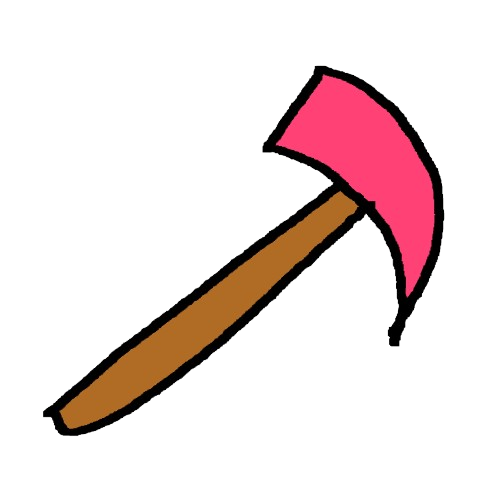
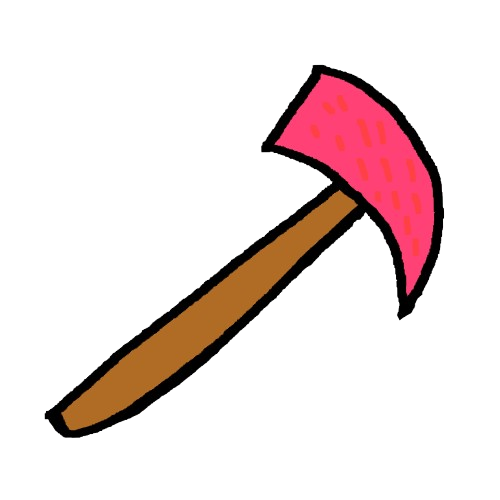
Changed a lot of things to the best and made everything even better :)

diff --git a/No-Gifts-By-Santa/MVVM/Model/allwishes.cs b/No-Gifts-By-Santa/MVVM/Model/allwishes.cs
@@ -72,7 +72,7 @@ namespace No_Gifts_By_Santa.MVVM.Model
         {
             string _wish =
                 "Hello, my name is Dave\nI am 7 years old.\n I really like the color red,\nand all sort of sweets";
-            dropElement _drop = new dropElement(view, _viewModel, "red", "sweet", "all", "candy", "hunger");
+            dropElement _drop = new dropElement(view, _viewModel, 1, "red", "sweet", "kids", "candy", "hunger");
             _drop.Source = $"gift_{new Random().Next(1, 4)}.png";
             return (_drop, _wish);
         }
@@ -81,7 +81,7 @@ namespace No_Gifts_By_Santa.MVVM.Model
         {
             string _wish =
                 "Hello, my name is Basti\nI am 24 years old.\n I really like the color blue,\nand i like to drink coffee";
-            dropElement _drop = new dropElement(view, _viewModel, "blue", "kitchen", "adult", "porcelain", "allday");
+            dropElement _drop = new dropElement(view, _viewModel, 1, "blue", "kitchen", "adult", "porcelain", "allday");
             _drop.Source = $"gift_{new Random().Next(1, 4)}.png";
             return (_drop, _wish);
         }
@@ -90,7 +90,7 @@ namespace No_Gifts_By_Santa.MVVM.Model
         {
             string _wish =
                 "Hello, my name is Pascal\nI am 18 years old.\n I really like the color green,\nand i like to drink tee";
-            dropElement _drop = new dropElement(view, _viewModel, "green", "kitchen", "adult", "porcelain", "allday");
+            dropElement _drop = new dropElement(view, _viewModel, 1, "green", "kitchen", "adult", "porcelain", "allday");
             _drop.Source = $"gift_{new Random().Next(1, 4)}.png";
             return (_drop, _wish);
         }
@@ -98,8 +98,8 @@ namespace No_Gifts_By_Santa.MVVM.Model
         public static (dropElement drop, string wish) wish_4(AbsoluteLayout view, GameViewModel _viewModel)
         {
             string _wish =
-                "Hello, my name is Mariella\nI am 9 years old.\n I really love fluffy plushies \nand especially bees";
-            dropElement _drop = new dropElement(view, _viewModel, "yellow", "cuddle-toy", "kids", "fabric", "fun");
+                "Hello, my name is Mariella,\n i really like fluffy things,\n my favorite Color is yellow";
+            dropElement _drop = new dropElement(view, _viewModel, 1, "yellow", "cuddle-toy", "kids", "fabric", "fun");
             _drop.Source = $"gift_{new Random().Next(1, 4)}.png";
             return (_drop, _wish);
         }
@@ -107,24 +107,24 @@ namespace No_Gifts_By_Santa.MVVM.Model
         public static (dropElement drop, string wish) wish_5(AbsoluteLayout view, GameViewModel _viewModel)
         {
             string _wish =
-                "Hello, my name is Grandma Ute\nI am 78 years old.\n I need more jars for my\njams and pickled vegetables!";
-            dropElement _drop = new dropElement(view, _viewModel, "white", "kitchen", "all", "glas", "allday");
+                "Hello, my name is Grandma Ute,\ni love to put vegetables\ninto jars";
+            dropElement _drop = new dropElement(view, _viewModel, 1, "white", "kitchen", "all", "glas", "allday");
             _drop.Source = $"gift_{new Random().Next(1, 4)}.png";
             return (_drop, _wish);
         }
 
         public static (dropElement drop, string wish) wish_6(AbsoluteLayout view, GameViewModel _viewModel)
         {
-            string _wish = "Hello, my name is Hannes\nI am 35 years old.\n I'm a viking at heart!\nGive me an axe!";
-            dropElement _drop = new dropElement(view, _viewModel, "red", "tools", "adult", "metal", "crafting");
+            string _wish = "Hello, my name is Katring,\nthere is nothing i like more\nthan all kind of hats\n";
+            dropElement _drop = new dropElement(view, _viewModel, 2, "red", "accesory", "adult", "fabric", "wearing");
             _drop.Source = $"gift_{new Random().Next(1, 4)}.png";
             return (_drop, _wish);
         }
 
         public static (dropElement drop, string wish) wish_7(AbsoluteLayout view, GameViewModel _viewModel)
         {
-            string _wish = "Hello, my name is Tim\nI am 42 years old.\n I'm so bald, I need a hat\nto hide my shame!";
-            dropElement _drop = new dropElement(view, _viewModel, "red", "accesory", "all", "fabric", "wearing");
+            string _wish = "Hello, my name is farmer Bob,\n sadly all my tools broke.\ni loved to wear my old\nhay hat";
+            dropElement _drop = new dropElement(view, _viewModel, 2, "yellow", "accesory", "adult", "hay", "wearing");
             _drop.Source = $"gift_{new Random().Next(1, 4)}.png";
             return (_drop, _wish);
         }
@@ -132,8 +132,8 @@ namespace No_Gifts_By_Santa.MVVM.Model
         public static (dropElement drop, string wish) wish_8(AbsoluteLayout view, GameViewModel _viewModel)
         {
             string _wish =
-                "Hello, my name is Joachim\nI am 55 years old.\n I want shiny things!\nA golden ring please!";
-            dropElement _drop = new dropElement(view, _viewModel, "yellow", "accesory", "adult", "gold", "wearing");
+                "Hello, my name is Edith,\ni like all kind of shiny things\nas more worth they have\n as better, hehehe.";
+            dropElement _drop = new dropElement(view, _viewModel, 2, "yellow", "accesory", "adult", "gold", "wearing");
             _drop.Source = $"gift_{new Random().Next(1, 4)}.png";
             return (_drop, _wish);
         }
@@ -141,8 +141,8 @@ namespace No_Gifts_By_Santa.MVVM.Model
         public static (dropElement drop, string wish) wish_9(AbsoluteLayout view, GameViewModel _viewModel)
         {
             string _wish =
-                "Hello, my name is Paul\nI am 25 years old.\n I need something special\nfor lonely winter nights! 😉";
-            dropElement _drop = new dropElement(view, _viewModel, "pink", "toy", "adult", "silicon", "sec");
+                "Hello, my name is Paul\nI am 25 years old.\ni really like all sorts of\n sex toys.";
+            dropElement _drop = new dropElement(view, _viewModel, 1, "pink", "toy", "adult", "silicon", "sec");
             _drop.Source = $"gift_{new Random().Next(1, 4)}.png";
             return (_drop, _wish);
         }
@@ -150,8 +150,8 @@ namespace No_Gifts_By_Santa.MVVM.Model
         public static (dropElement drop, string wish) wish_10(AbsoluteLayout view, GameViewModel _viewModel)
         {
             string _wish =
-                "Hello, my name is Maria\nI am 6 years old.\n I love gingerbread!\nEspecially at Christmas time!";
-            dropElement _drop = new dropElement(view, _viewModel, "brown", "sweet", "kids", "candy", "hunger");
+                "Hello, my name is Daniel\n i really like all kind\nof food and especially\n fruits and vegetables";
+            dropElement _drop = new dropElement(view, _viewModel, 2, "orange", "food", "all", "vegetable", "hunger");
             _drop.Source = $"gift_{new Random().Next(1, 4)}.png";
             return (_drop, _wish);
         }
@@ -159,32 +159,32 @@ namespace No_Gifts_By_Santa.MVVM.Model
         public static (dropElement drop, string wish) wish_11(AbsoluteLayout view, GameViewModel _viewModel)
         {
             string _wish =
-                "Hello, my name is Lisa\nI am 28 years old.\n I'm addicted to sweets!\nGive me ALL the candy!";
-            dropElement _drop = new dropElement(view, _viewModel, "blue", "sweet", "all", "candy", "hunger");
+                "Hello, my name is Anna-Lena\n and i really like sweets,\nespecially those which are\nblue and multi colored";
+            dropElement _drop = new dropElement(view, _viewModel, 2, "blue", "sweet", "all", "candy", "hunger");
             _drop.Source = $"gift_{new Random().Next(1, 4)}.png";
             return (_drop, _wish);
         }
 
         public static (dropElement drop, string wish) wish_12(AbsoluteLayout view, GameViewModel _viewModel)
         {
-            string _wish = "Hello, my name is Olivia\nI am 3 years old.\n I'm hungry for oranges!\nThey are so yummy!";
-            dropElement _drop = new dropElement(view, _viewModel, "orange", "food", "all", "fruit", "hunger");
+            string _wish = "Hello, my name is Emma,\nI really love to go out\nshopping";
+            dropElement _drop = new dropElement(view, _viewModel, 2, "green", "shoping", "all", "metal", "allday");
             _drop.Source = $"gift_{new Random().Next(1, 4)}.png";
             return (_drop, _wish);
         }
 
         public static (dropElement drop, string wish) wish_13(AbsoluteLayout view, GameViewModel _viewModel)
         {
-            string _wish = "Hello, my name is Sandra\nI am 31 years old.\n I love collecting mugs!\nCoffee is life!";
-            dropElement _drop = new dropElement(view, _viewModel, "blue", "kitchen", "adult", "porcelain", "allday");
+            string _wish = "Hello, my name is Bea\nand i am obsessed with\ngreen things";
+            dropElement _drop = new dropElement(view, _viewModel, 2, "green", "kitchen", "adult", "porcelain", "allday");
             _drop.Source = $"gift_{new Random().Next(1, 4)}.png";
             return (_drop, _wish);
         }
 
         public static (dropElement drop, string wish) wish_14(AbsoluteLayout view, GameViewModel _viewModel)
         {
-            string _wish = "Hello, my name is Ronny\nI am 12 years old.\n I want everything yellow!\nBees are awesome!";
-            dropElement _drop = new dropElement(view, _viewModel, "yellow", "cuddle-toy", "kids", "fabric", "fun");
+            string _wish = "Hello, my name is Rony\nI love yellow things";
+            dropElement _drop = new dropElement(view, _viewModel, 2, "yellow", "cuddle-toy", "kids", "fabric", "fun");
             _drop.Source = $"gift_{new Random().Next(1, 4)}.png";
             return (_drop, _wish);
         }
@@ -193,7 +193,7 @@ namespace No_Gifts_By_Santa.MVVM.Model
         {
             string _wish =
                 "Hello, my name is Petra\nI am 44 years old.\n I need green things!\nGreen is the new black!";
-            dropElement _drop = new dropElement(view, _viewModel, "green", "kitchen", "adult", "porcelain", "allday");
+            dropElement _drop = new dropElement(view, _viewModel, 1, "green", "kitchen", "adult", "porcelain", "allday");
             _drop.Source = $"gift_{new Random().Next(1, 4)}.png";
             return (_drop, _wish);
         }
@@ -201,7 +201,7 @@ namespace No_Gifts_By_Santa.MVVM.Model
         public static (dropElement drop, string wish) wish_16(AbsoluteLayout view, GameViewModel _viewModel)
         {
             string _wish = "Hello, my name is Kevin\nI am 5 years old.\n I love sweet treats!\nCan you give me candy?";
-            dropElement _drop = new dropElement(view, _viewModel, "red", "sweet", "all", "candy", "hunger");
+            dropElement _drop = new dropElement(view, _viewModel, 2, "red", "sweet", "all", "candy", "hunger");
             _drop.Source = $"gift_{new Random().Next(1, 4)}.png";
             return (_drop, _wish);
         }
@@ -209,7 +209,7 @@ namespace No_Gifts_By_Santa.MVVM.Model
         public static (dropElement drop, string wish) wish_17(AbsoluteLayout view, GameViewModel _viewModel)
         {
             string _wish = "Hello, my name is Bernd\nI am 67 years old.\n I need jars for my\npreserved goods!";
-            dropElement _drop = new dropElement(view, _viewModel, "white", "kitchen", "all", "glas", "allday");
+            dropElement _drop = new dropElement(view, _viewModel, 1, "white", "kitchen", "all", "glas", "allday");
             _drop.Source = $"gift_{new Random().Next(1, 4)}.png";
             return (_drop, _wish);
         }
@@ -217,15 +217,15 @@ namespace No_Gifts_By_Santa.MVVM.Model
         public static (dropElement drop, string wish) wish_18(AbsoluteLayout view, GameViewModel _viewModel)
         {
             string _wish = "Hello, my name is Thor\nI am 29 years old.\n Axes are awesome!\nI'm a lumberjack!";
-            dropElement _drop = new dropElement(view, _viewModel, "red", "tools", "adult", "metal", "crafting");
+            dropElement _drop = new dropElement(view, _viewModel, 1, "red", "tools", "adult", "metal", "crafting");
             _drop.Source = $"gift_{new Random().Next(1, 4)}.png";
             return (_drop, _wish);
         }
 
         public static (dropElement drop, string wish) wish_19(AbsoluteLayout view, GameViewModel _viewModel)
         {
-            string _wish = "Hello, my name is Bärbel\nI am 52 years old.\n I need a new hat!\nThe old one is worn out!";
-            dropElement _drop = new dropElement(view, _viewModel, "red", "accesory", "all", "fabric", "wearing");
+            string _wish = "Hello, my name is Bärbel\nI am 52 years old.\n I need a new hat!\nThe old one is worn out!\nI love the color yellow";
+            dropElement _drop = new dropElement(view, _viewModel, 1, "yellow", "accesory", "all", "hay", "wearing");
             _drop.Source = $"gift_{new Random().Next(1, 4)}.png";
             return (_drop, _wish);
         }
@@ -233,15 +233,15 @@ namespace No_Gifts_By_Santa.MVVM.Model
         public static (dropElement drop, string wish) wish_20(AbsoluteLayout view, GameViewModel _viewModel)
         {
             string _wish = "Hello, my name is Maximilian\nI am 47 years old.\n Give me gold!\nI want to shine!";
-            dropElement _drop = new dropElement(view, _viewModel, "yellow", "accesory", "adult", "gold", "wearing");
+            dropElement _drop = new dropElement(view, _viewModel, 1, "yellow", "accesory", "adult", "gold", "wearing");
             _drop.Source = $"gift_{new Random().Next(1, 4)}.png";
             return (_drop, _wish);
         }
 
         public static (dropElement drop, string wish) wish_21(AbsoluteLayout view, GameViewModel _viewModel)
         {
-            string _wish = "Hello, my name is Friedrich\nI am 33 years old.\n Something for my\nprivate collection! 😉";
-            dropElement _drop = new dropElement(view, _viewModel, "pink", "toy", "adult", "silicon", "sec");
+            string _wish = "Hello, my name is Len\nI am 33 years old.\n Something for my\nprivate collection!\n(prefered dildos)";
+            dropElement _drop = new dropElement(view, _viewModel, 1, "pink", "toy", "adult", "silicon", "sec");
             _drop.Source = $"gift_{new Random().Next(1, 4)}.png";
             return (_drop, _wish);
         }
@@ -249,7 +249,7 @@ namespace No_Gifts_By_Santa.MVVM.Model
         public static (dropElement drop, string wish) wish_22(AbsoluteLayout view, GameViewModel _viewModel)
         {
             string _wish = "Hello, my name is Clara\nI am 8 years old.\n I love gingerbread!\nEspecially at Christmas!";
-            dropElement _drop = new dropElement(view, _viewModel, "brown", "sweet", "kids", "candy", "hunger");
+            dropElement _drop = new dropElement(view, _viewModel, 1, "brown", "sweet", "kids", "candy", "hunger");
             _drop.Source = $"gift_{new Random().Next(1, 4)}.png";
             return (_drop, _wish);
         }
@@ -257,7 +257,7 @@ namespace No_Gifts_By_Santa.MVVM.Model
         public static (dropElement drop, string wish) wish_23(AbsoluteLayout view, GameViewModel _viewModel)
         {
             string _wish = "Hello, my name is Denise\nI am 26 years old.\n MORE CANDY!\nI can't get enough!";
-            dropElement _drop = new dropElement(view, _viewModel, "blue", "sweet", "all", "candy", "hunger");
+            dropElement _drop = new dropElement(view, _viewModel, 3, "blue", "sweet", "all", "candy", "hunger");
             _drop.Source = $"gift_{new Random().Next(1, 4)}.png";
             return (_drop, _wish);
         }
@@ -266,7 +266,7 @@ namespace No_Gifts_By_Santa.MVVM.Model
         {
             string _wish =
                 "Hello, my name is Robert\nI am 51 years old.\n Fruits make me happy!\nOranges are the best!";
-            dropElement _drop = new dropElement(view, _viewModel, "orange", "food", "all", "fruit", "hunger");
+            dropElement _drop = new dropElement(view, _viewModel, 1, "orange", "food", "all", "fruit", "hunger");
             _drop.Source = $"gift_{new Random().Next(1, 4)}.png";
             return (_drop, _wish);
         }

diff --git a/No-Gifts-By-Santa/MVVM/ViewModel/GameViewModel.cs b/No-Gifts-By-Santa/MVVM/ViewModel/GameViewModel.cs
@@ -118,14 +118,12 @@ namespace No_Gifts_By_Santa.MVVM.ViewModel
         {
             if (_items.Count == 0) return;
             
-            double[] xPositionsBase = { 750, 900, 1050, 1200, 750, 900, 1050, 1200, 750, 900, 1050, 1200 };
-            double[] yPositionsBase = { 400, 430, 470, 440, 570, 530, 600, 560, 750, 780, 720, 790 };
             double size = 80 * Math.Min(scaleX, scaleY);
             
-            for (int i = 0; i < _items.Count && i < xPositionsBase.Length; i++)
+            for (int i = 0; i < _items.Count; i++)
             {
-                double x = xPositionsBase[i] * scaleX;
-                double y = yPositionsBase[i] * scaleY;
+                double x = new Random().Next(700, 1500) * scaleX;
+                double y = new Random().Next(400, 800) * scaleY;
                 AbsoluteLayout.SetLayoutBounds(_items[i], new Rect(x, y, size, size));
             }
         }
@@ -158,24 +156,26 @@ namespace No_Gifts_By_Santa.MVVM.ViewModel
             _items.Add(allItems.orange(_canvas, _giftBox));
             _items.Add(allItems.gingerbread(_canvas, _giftBox));
             _items.Add(allItems.Candy_2(_canvas, _giftBox));
-            _items.Add(allItems.Ring(_canvas, _giftBox));
+            _items.Add(allItems.ring1(_canvas, _giftBox));
             _items.Add(allItems.Dildo(_canvas, _giftBox));
             _items.Add(allItems.Axe(_canvas, _giftBox));
             _items.Add(allItems.Hat(_canvas, _giftBox));
             _items.Add(allItems.jar(_canvas, _giftBox));
+            _items.Add(allItems.hat2(_canvas, _giftBox));
+            _items.Add(allItems.money1(_canvas, _giftBox));
+            _items.Add(allItems.money2(_canvas, _giftBox));
+            _items.Add(allItems.heyheyhey(_canvas, _giftBox));
+            _items.Add(allItems.ring2(_canvas, _giftBox));
+            _items.Add(allItems.carrot(_canvas, _giftBox));
             
             // Add gift box to the canvas - left bottom table area
             _canvas.Add(_giftBox);
             AbsoluteLayout.SetLayoutBounds(_giftBox, new Rect(280, 600, 120, 120));
-            
-            // Add items to the canvas - distributed in right table area (better spacing)
-            double[] xPositions = { 750, 900, 1050, 1200, 750, 900, 1050, 1200, 750, 900, 1050, 1200 };
-            double[] yPositions = { 400, 430, 470, 440, 570, 530, 600, 560, 750, 780, 720, 790 };
-            
-            for (int i = 0; i < _items.Count && i < xPositions.Length; i++)
+        
+            for (int i = 0; i < _items.Count; i++)
             {
                 _canvas.Add(_items[i]);
-                AbsoluteLayout.SetLayoutBounds(_items[i], new Rect(xPositions[i], yPositions[i], 80, 80));
+                AbsoluteLayout.SetLayoutBounds(_items[i], new Rect(new Random().Next(700, 1600), new Random().Next(400, 800), 80, 80));
             }
         }
 

diff --git a/No-Gifts-By-Santa/MVVM/Model/allItems.cs b/No-Gifts-By-Santa/MVVM/Model/allItems.cs
@@ -14,10 +14,16 @@ namespace No_Gifts_By_Santa.MVVM.Model
         public static Item orange(AbsoluteLayout view, dropElement drop) => new Item(view, drop, "orange", "food", "all", "fruit", "hunger", "orange.png");
         public static Item gingerbread(AbsoluteLayout view, dropElement drop) => new Item(view, drop, "brown", "sweet", "kids", "candy", "hunger", "gingerbread.png");
         public static Item Candy_2(AbsoluteLayout view, dropElement drop) => new Item(view, drop, "blue", "sweet", "all", "candy", "hunger", "candy_2.png");
-        public static Item Ring(AbsoluteLayout view, dropElement drop) => new Item(view, drop, "yellow", "accesory", "adult", "gold", "wearing", "ring.png");
+        public static Item ring1(AbsoluteLayout view, dropElement drop) => new Item(view, drop, "yellow", "accesory", "adult", "gold", "wearing", "ring_1.png");
         public static Item Dildo(AbsoluteLayout view, dropElement drop) => new Item(view, drop, "pink", "toy", "adult", "silicon", "sec", "dildo.png");
         public static Item Axe(AbsoluteLayout view, dropElement drop) => new Item(view, drop, "red", "tools", "adult", "metal", "crafting", "axe.png");
         public static Item Hat(AbsoluteLayout view, dropElement drop) => new Item(view, drop, "red", "accesory", "all", "fabric", "wearing", "hat.png");
         public static Item jar(AbsoluteLayout view, dropElement drop) => new Item(view, drop, "white", "kitchen", "all", "glas", "allday", "jar.png");
+        public static Item ring2(AbsoluteLayout view, dropElement drop) => new Item(view, drop, "gray", "accesory", "adult", "silver", "wearing", "ring_2.png");
+        public static Item money1(AbsoluteLayout view, dropElement drop) => new Item(view, drop, "yellow", "shoping", "all", "metal", "allday", "money_1.png");
+        public static Item money2(AbsoluteLayout view, dropElement drop) => new Item(view, drop, "green", "shoping", "all", "paper", "allday", "money_2.png");
+        public static Item hat2(AbsoluteLayout view, dropElement drop) => new Item(view, drop, "yellow", "accesory", "adult", "hay", "farming", "hat_2.png");
+        public static Item heyheyhey(AbsoluteLayout view, dropElement drop) => new Item(view, drop, "gray", "kitchen", "adult", "metal", "farming", "heyheyhey.png");
+        public static Item carrot(AbsoluteLayout view, dropElement drop) => new Item(view, drop, "orange", "food", "all", "vegetables", "hunger", "carrot.png");
     }
 }

diff --git a/No-Gifts-By-Santa/MVVM/Model/dropElement.cs b/No-Gifts-By-Santa/MVVM/Model/dropElement.cs
@@ -11,6 +11,7 @@ namespace No_Gifts_By_Santa.MVVM.Model
         private GameViewModel _viewModel;
         private List<Item> _items = new List<Item>();
         private int _itemAmount = 0;
+        private int _itemsPossible = 0;
 
         //Properties
         private string Color { get; set; }
@@ -19,10 +20,11 @@ namespace No_Gifts_By_Santa.MVVM.Model
         private string Material { get; set; }
         private string Usage { get; set; }
 
-        public dropElement(AbsoluteLayout canvas, GameViewModel _gameview, string color, string category, string ageGroup, string material, string usage) : base(canvas)
+        public dropElement(AbsoluteLayout canvas, GameViewModel _gameview, int itemsAmount, string color, string category, string ageGroup, string material, string usage) : base(canvas)
         {
             _canvas = canvas;
             _viewModel = _gameview;
+            _itemsPossible = itemsAmount;
             Color = color;
             Category = category;
             AgeGroup = ageGroup;
@@ -37,7 +39,7 @@ namespace No_Gifts_By_Santa.MVVM.Model
         {
             _items.Add(_item);
             _itemAmount++;
-            if(_itemAmount == 1)
+            if(_itemAmount == _itemsPossible)
             {
                 foreach (var item in _items)
                 {
@@ -55,7 +57,7 @@ namespace No_Gifts_By_Santa.MVVM.Model
                         Preferences.Set("earnings", Preferences.Get("earnings", 0)+1);
                         perfektCounter++;
                     }
-                    if(item.AgeGroup == AgeGroup)
+                    if(item.AgeGroup == AgeGroup || item.AgeGroup == "all")
                     {
                         Preferences.Set("Lebkuchen", Preferences.Get("Lebkuchen", 0) + 1);
                         Preferences.Set("earnings", Preferences.Get("earnings", 0)+1);

diff --git a/No-Gifts-By-Santa/MVVM/View/TutorialView.xaml.cs b/No-Gifts-By-Santa/MVVM/View/TutorialView.xaml.cs
@@ -28,7 +28,7 @@ public partial class TutorialView : ContentView
         _items.Add(allItems.orange(Canvas, _giftBoxDropElement));
         _items.Add(allItems.gingerbread(Canvas, _giftBoxDropElement));
         _items.Add(allItems.Candy_2(Canvas, _giftBoxDropElement));
-        _items.Add(allItems.Ring(Canvas, _giftBoxDropElement));
+        _items.Add(allItems.ring1(Canvas, _giftBoxDropElement));
         _items.Add(allItems.Dildo(Canvas, _giftBoxDropElement));
         _items.Add(allItems.Axe(Canvas, _giftBoxDropElement));
         _items.Add(allItems.Hat(Canvas, _giftBoxDropElement));

diff --git a/No-Gifts-By-Santa/MVVM/Model/Item.cs b/No-Gifts-By-Santa/MVVM/Model/Item.cs
@@ -19,7 +19,6 @@
         public string Usage { get; set; }
         
         //Other Variables
-        private bool _insidePackage = false;
         public Item(AbsoluteLayout canvas, dropElement dropElement, string color, string category, string agegroup, string material, string usage, string source) : base(canvas)
         {
             this.HeightRequest = 100;
@@ -60,7 +59,6 @@
             {
                 _canvas.Children.Remove(this);
                 _giftBoxDropElement.CaptureItem(this);
-                _insidePackage = true;
             }
         }
     }

diff --git a/No-Gifts-By-Santa/MVVM/Model/TutorialGift.cs b/No-Gifts-By-Santa/MVVM/Model/TutorialGift.cs
@@ -2,7 +2,7 @@ namespace No_Gifts_By_Santa.MVVM.Model
 {
     public class TutorialGift : dropElement
     {
-        public TutorialGift(AbsoluteLayout canvas) : base(canvas, null, "orange", "food", "all", "fruit", "hunger")
+        public TutorialGift(AbsoluteLayout canvas) : base(canvas, null, 1, "orange", "food", "all", "fruit", "hunger")
         {
             this.HeightRequest = 150;
             this.WidthRequest = 150;
